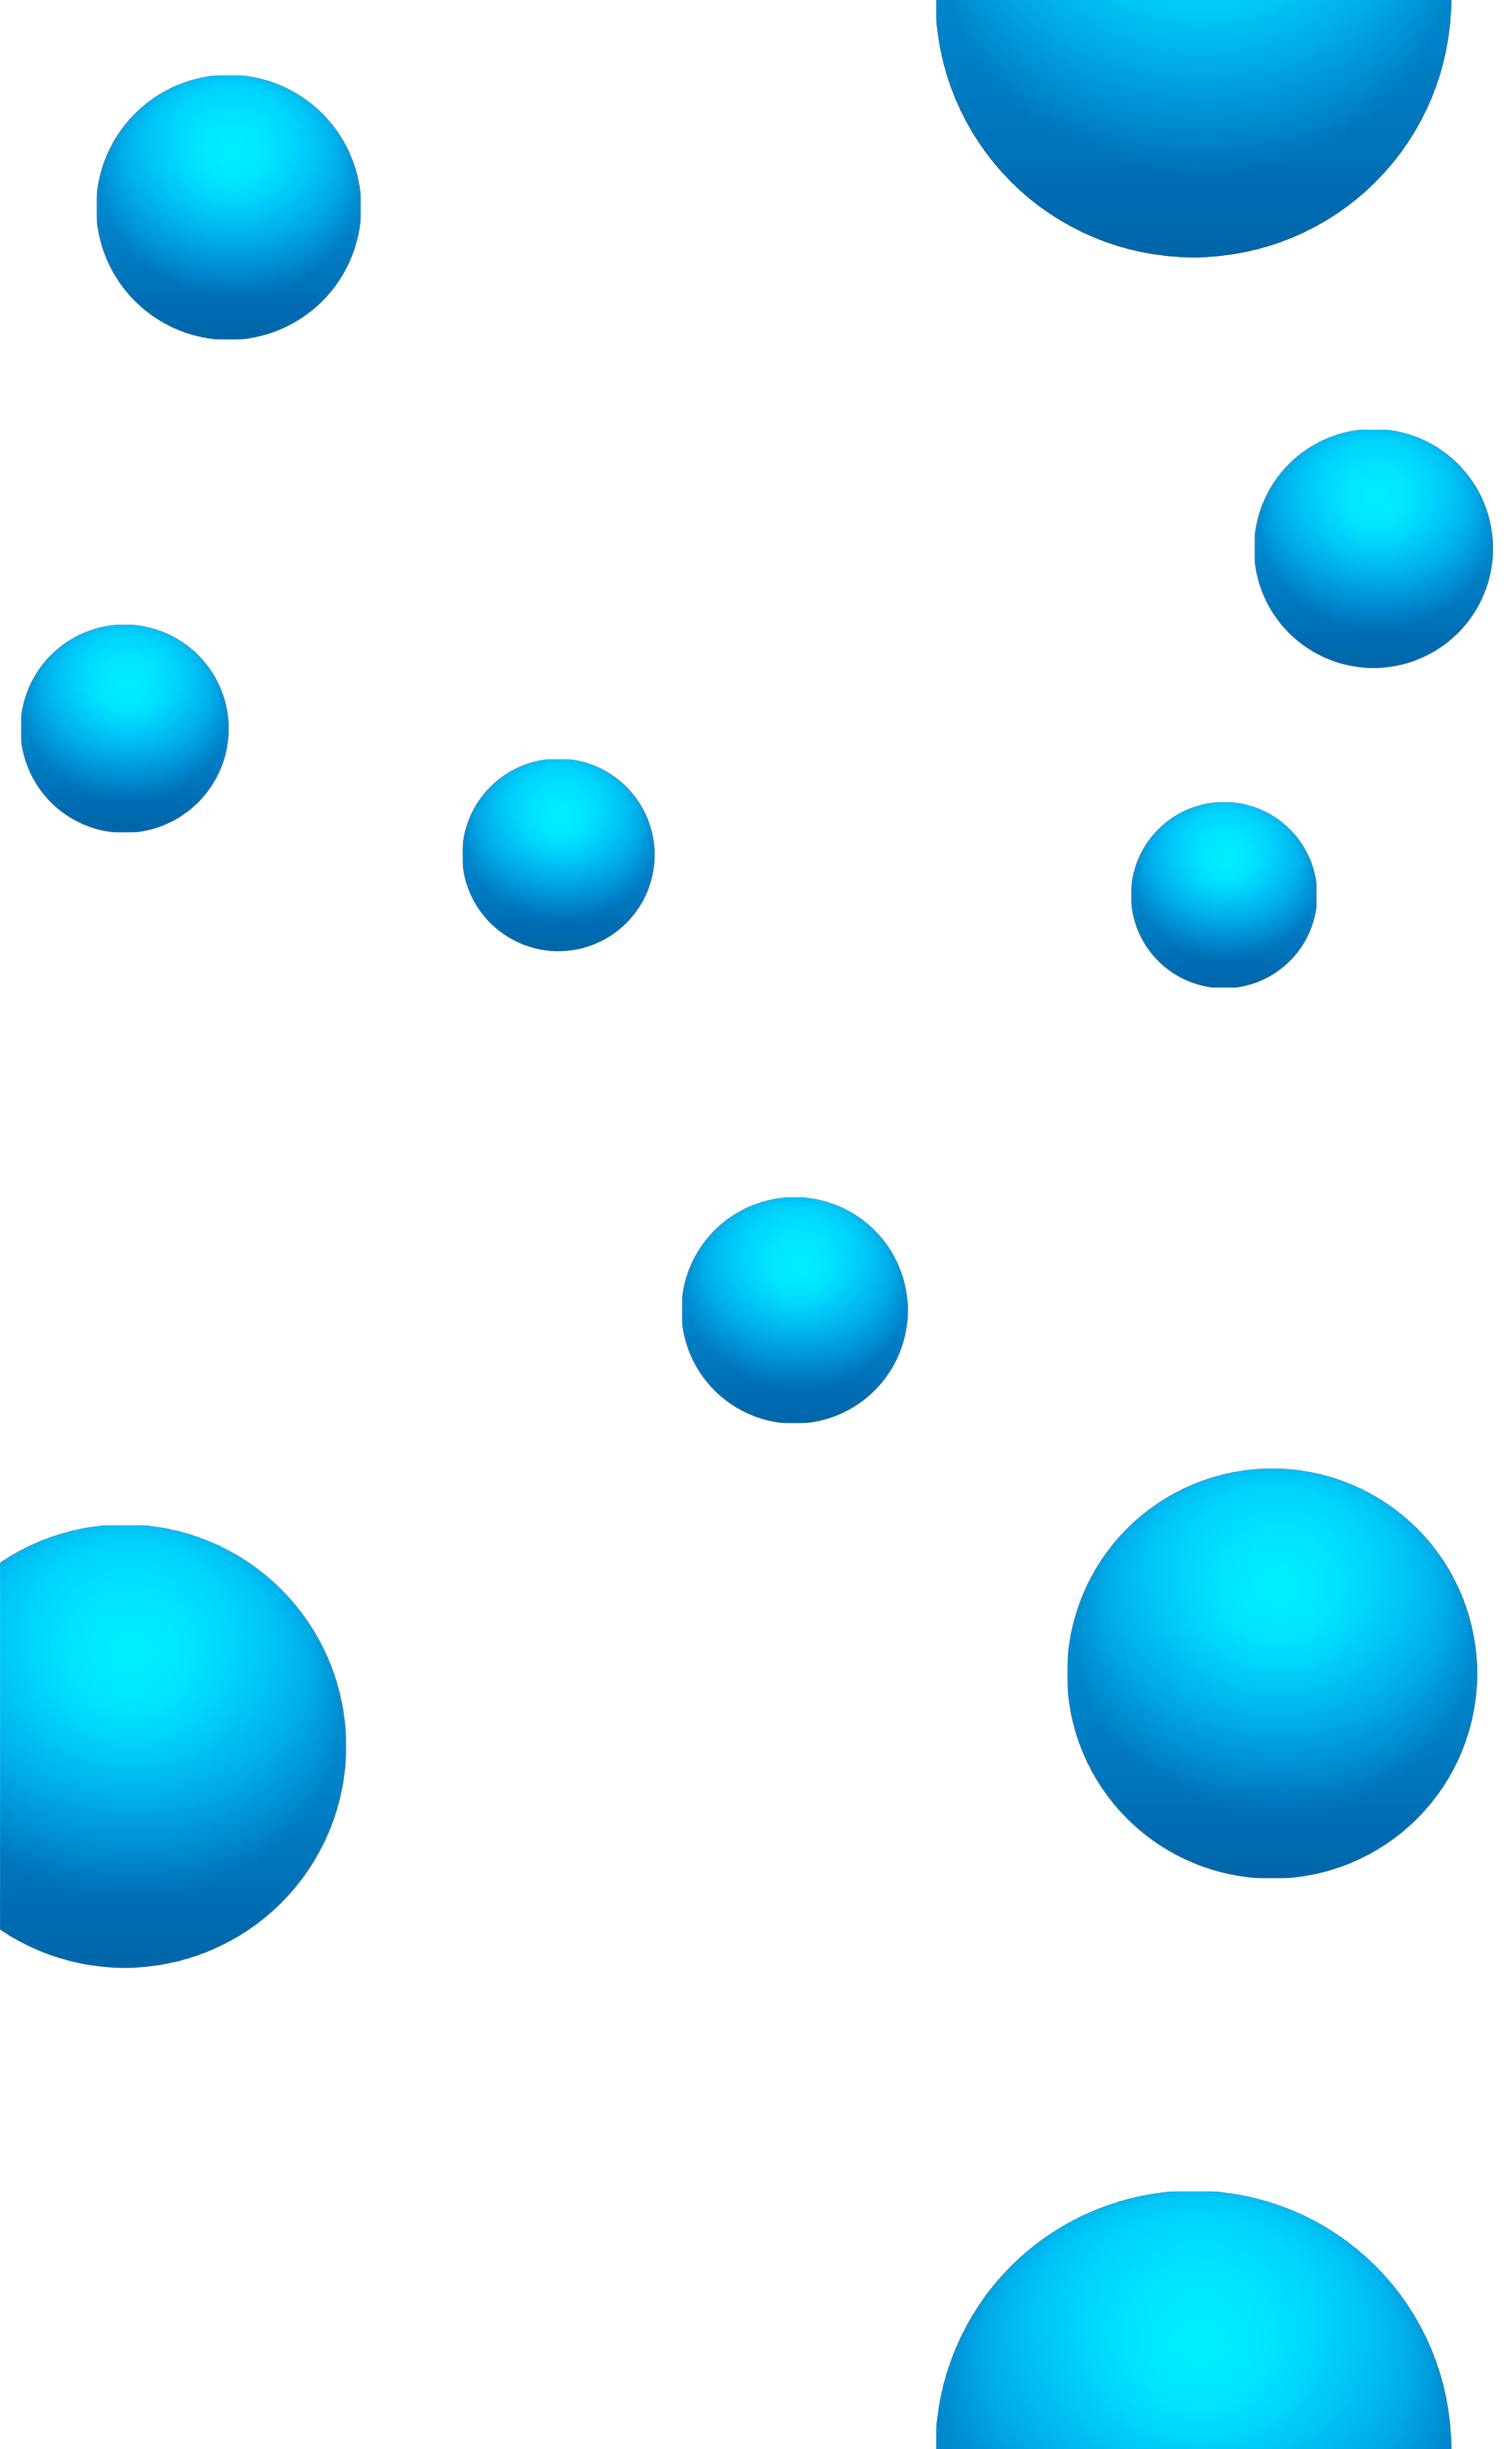
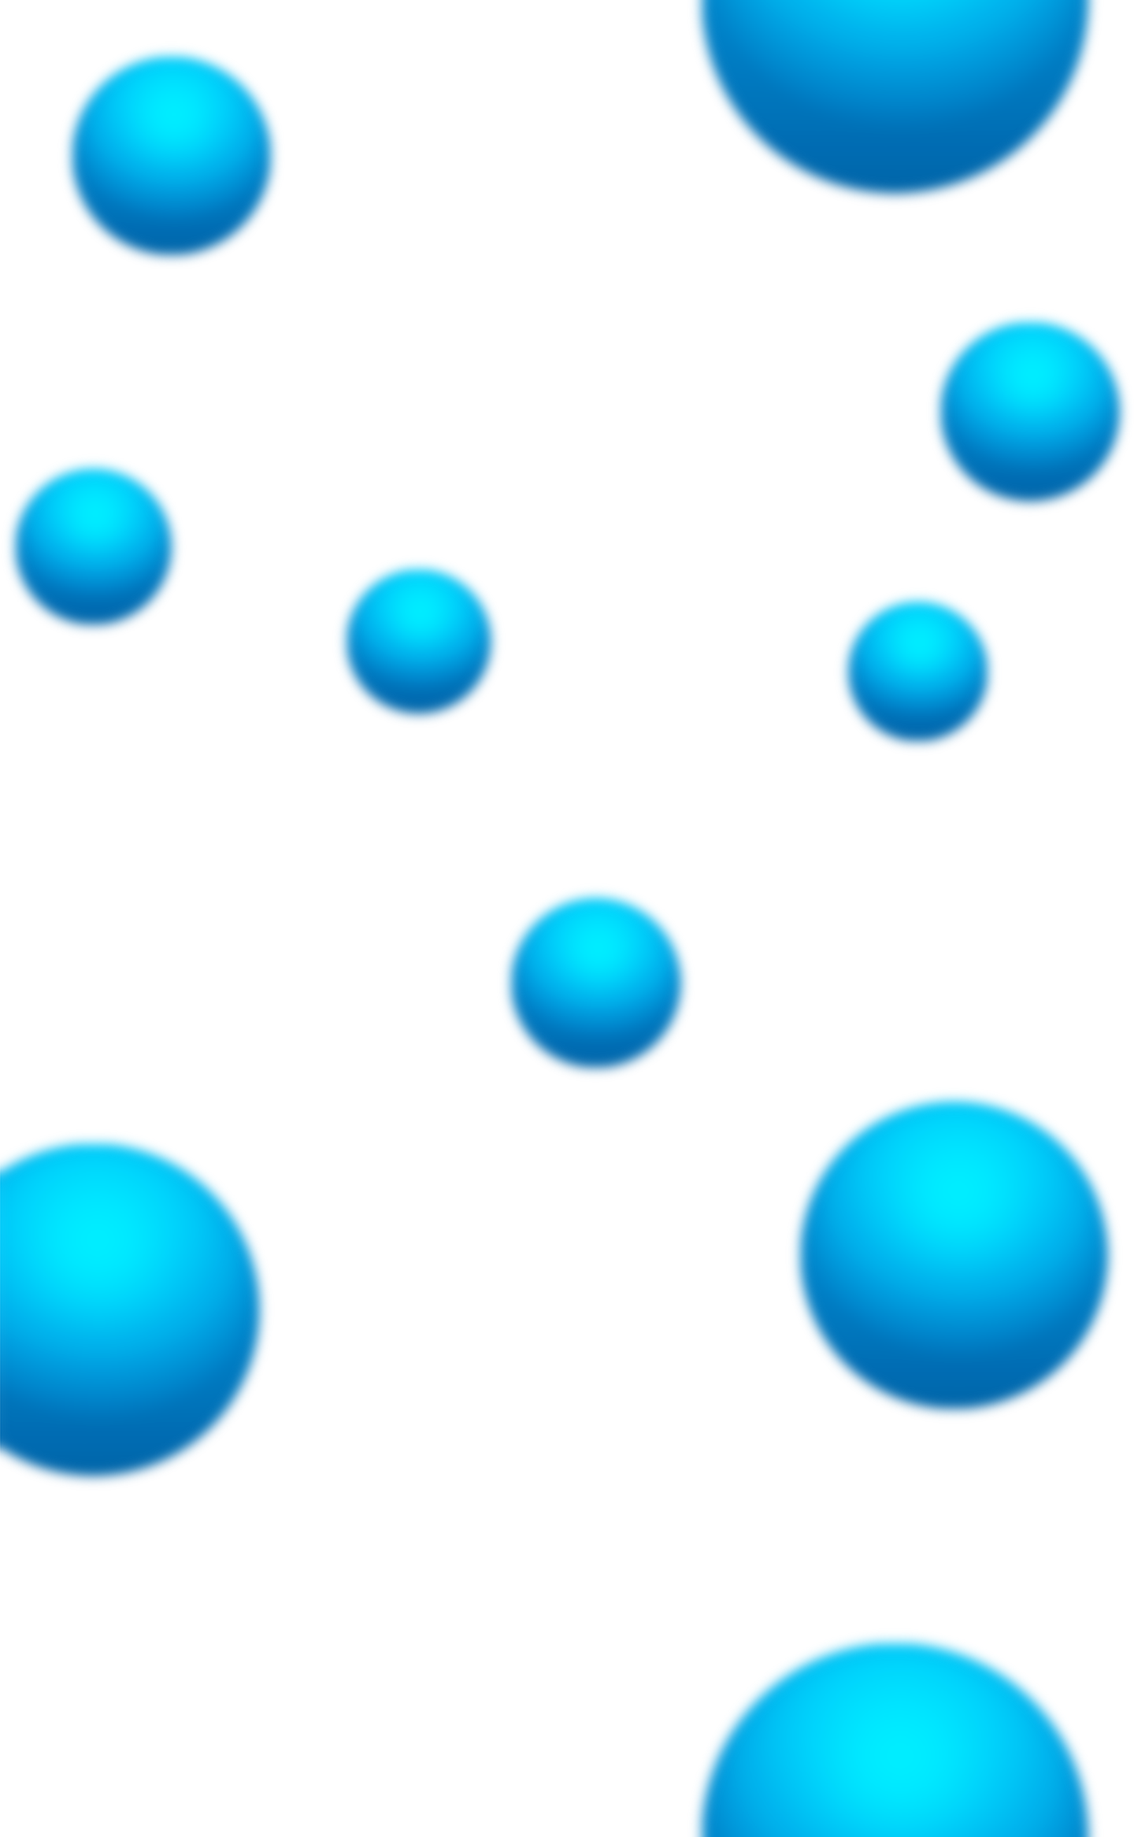
Retbuble

diff --git a/css/style.css b/css/style.css
@@ -55,7 +55,6 @@ body {
   width: 100%;
   height: 100%;
   z-index: 1;
-/*   filter: blur(14px); */
   transition: all 0.5s cubic-bezier(0, 0.55, 0.43, 1.82);
 }
 
@@ -68,7 +67,6 @@ body {
   width: 100%;
   height: 100%;
   z-index: 1;
-/*   filter: blur(5px); */
   transition: all 0.5s cubic-bezier(0, 0.55, 0.43, 1.82);
 }
 
